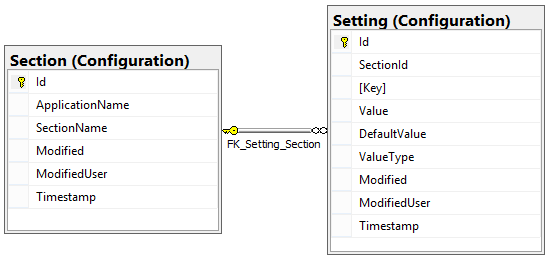
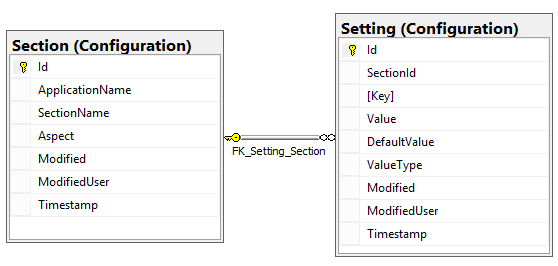
Update to schema to support 'Aspect' field

Changed region(s): [[0.0, 0.0, 1.0, 0.9771], [0.6491, 0.5802, 0.8036, 0.916], [0.0618, 0.7328, 0.1855, 0.7939]]

diff --git a/src/Configuration.EntityFramework/Configuration/SettingConfiguration.cs b/src/Configuration.EntityFramework/Configuration/SettingConfiguration.cs
@@ -7,18 +7,29 @@ namespace Configuration.EntityFramework
     {
         public override void Map(EntityTypeBuilder<SettingEntity> b)
         {
-            b.HasIndex(i => new { i.SectionId, i.Key }).HasName("IX_Setting_SectionId_Key").IsUnique();
+            b.ToTable("Setting", "Configuration");
 
-            b.Property(p => p.Key).HasMaxLength(50);
-            b.Property(p => p.ModifiedUser).HasMaxLength(50);
+            b.HasIndex(e => e.SectionId)
+                .HasName("IX_Setting_SectionId");
 
-            b.ToTable("Setting", "Configuration").HasKey(p => p.Id);
+            b.HasIndex(e => new { e.SectionId, e.Key })
+                .HasName("IX_Setting_SectionId_Key")
+                .IsUnique();
 
-            //b.HasKey(e => new { e.Id, e.SectionId });
-            b.Property(e => e.Json).HasColumnName("Value");
-            b.Property(p => p.Timestamp)
-                .ValueGeneratedOnAddOrUpdate()
-                .IsConcurrencyToken();
+            b.Property(e => e.Key)
+                .IsRequired()
+                .HasMaxLength(50);
+
+            b.Property(e => e.ModifiedUser).HasMaxLength(50);
+
+            b.Property(e => e.Timestamp)
+                .IsRequired()
+                .HasColumnType("timestamp")
+                .ValueGeneratedOnAddOrUpdate();
+
+            b.HasOne(d => d.Section)
+                .WithMany(p => p.Settings)
+                .HasForeignKey(d => d.SectionId);
         }
     }
 }
